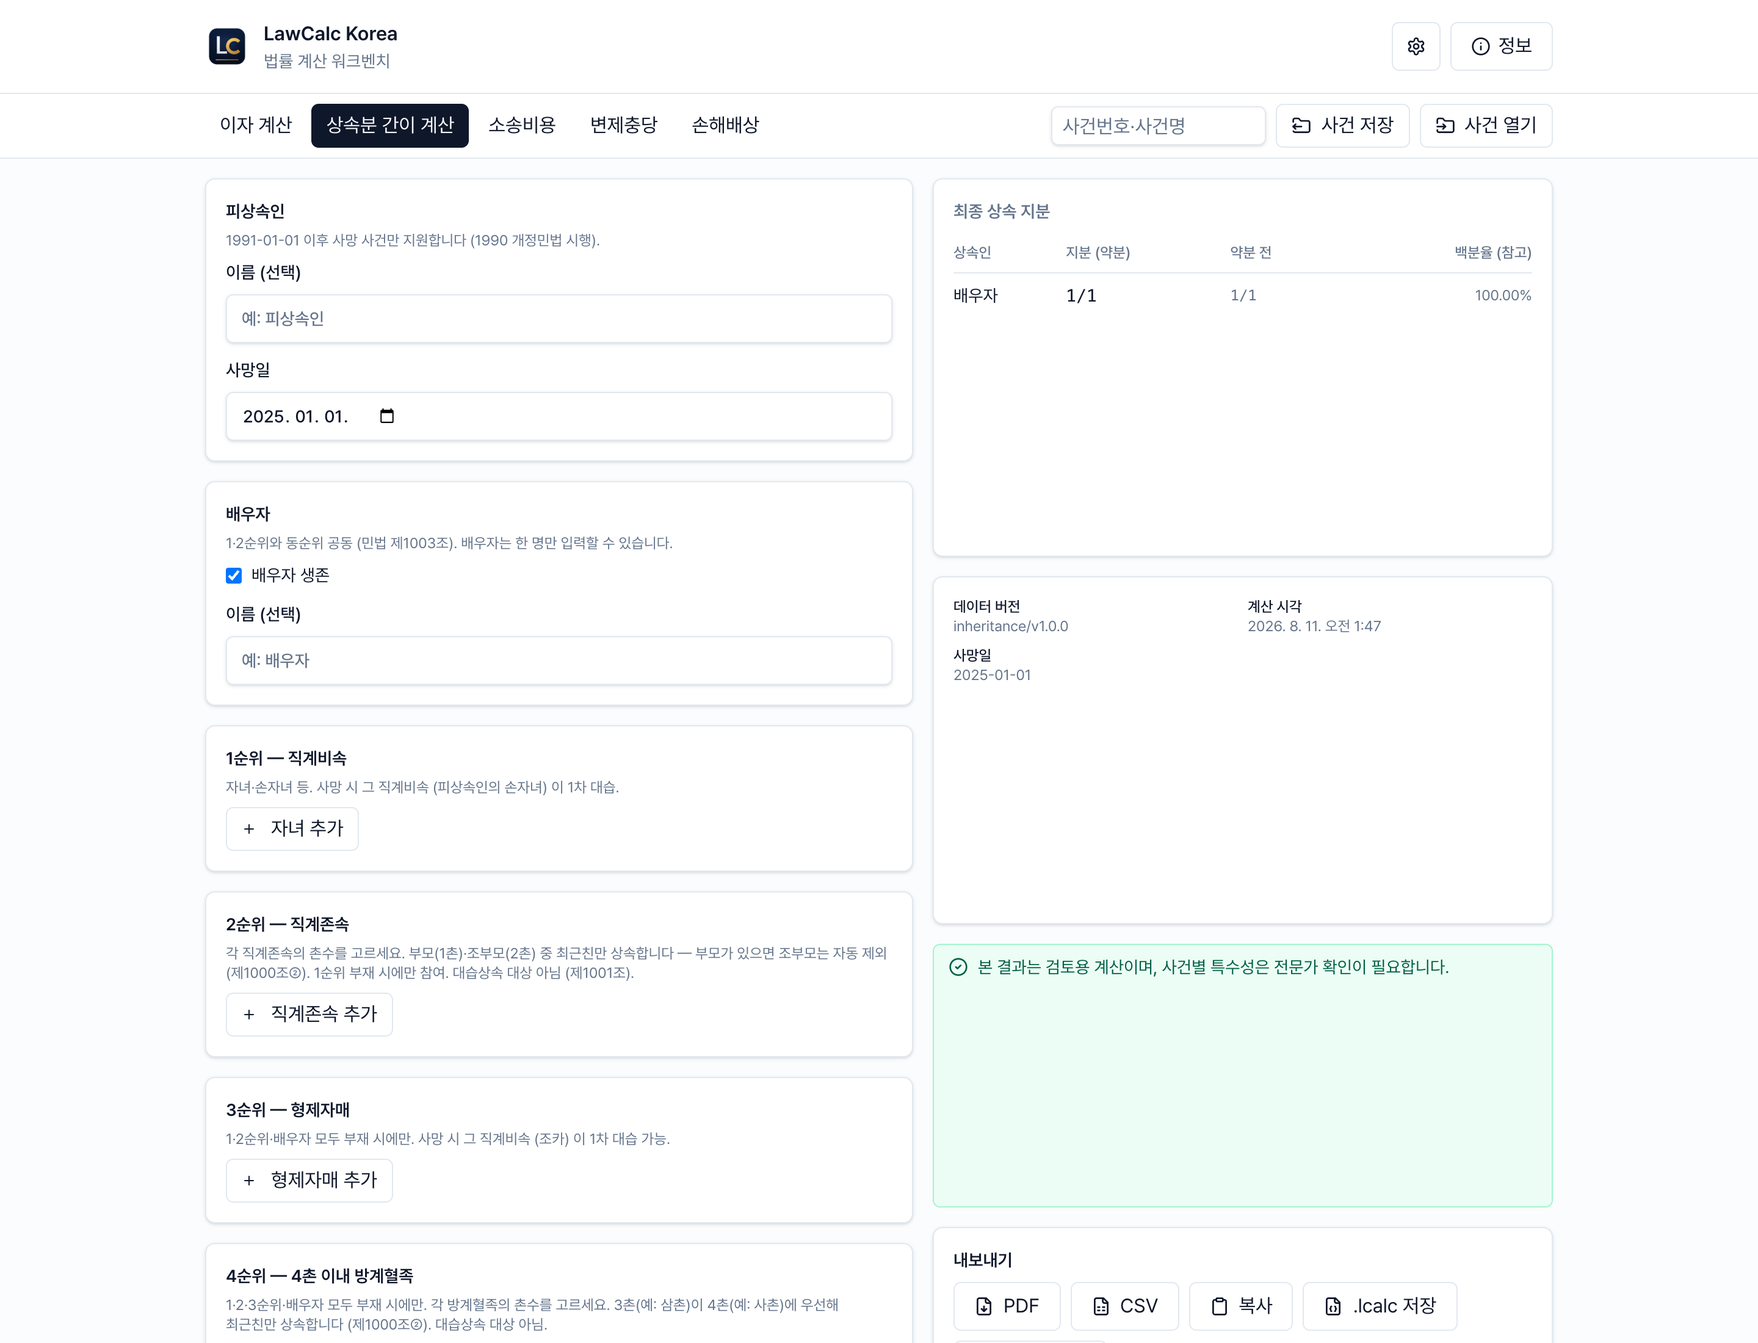
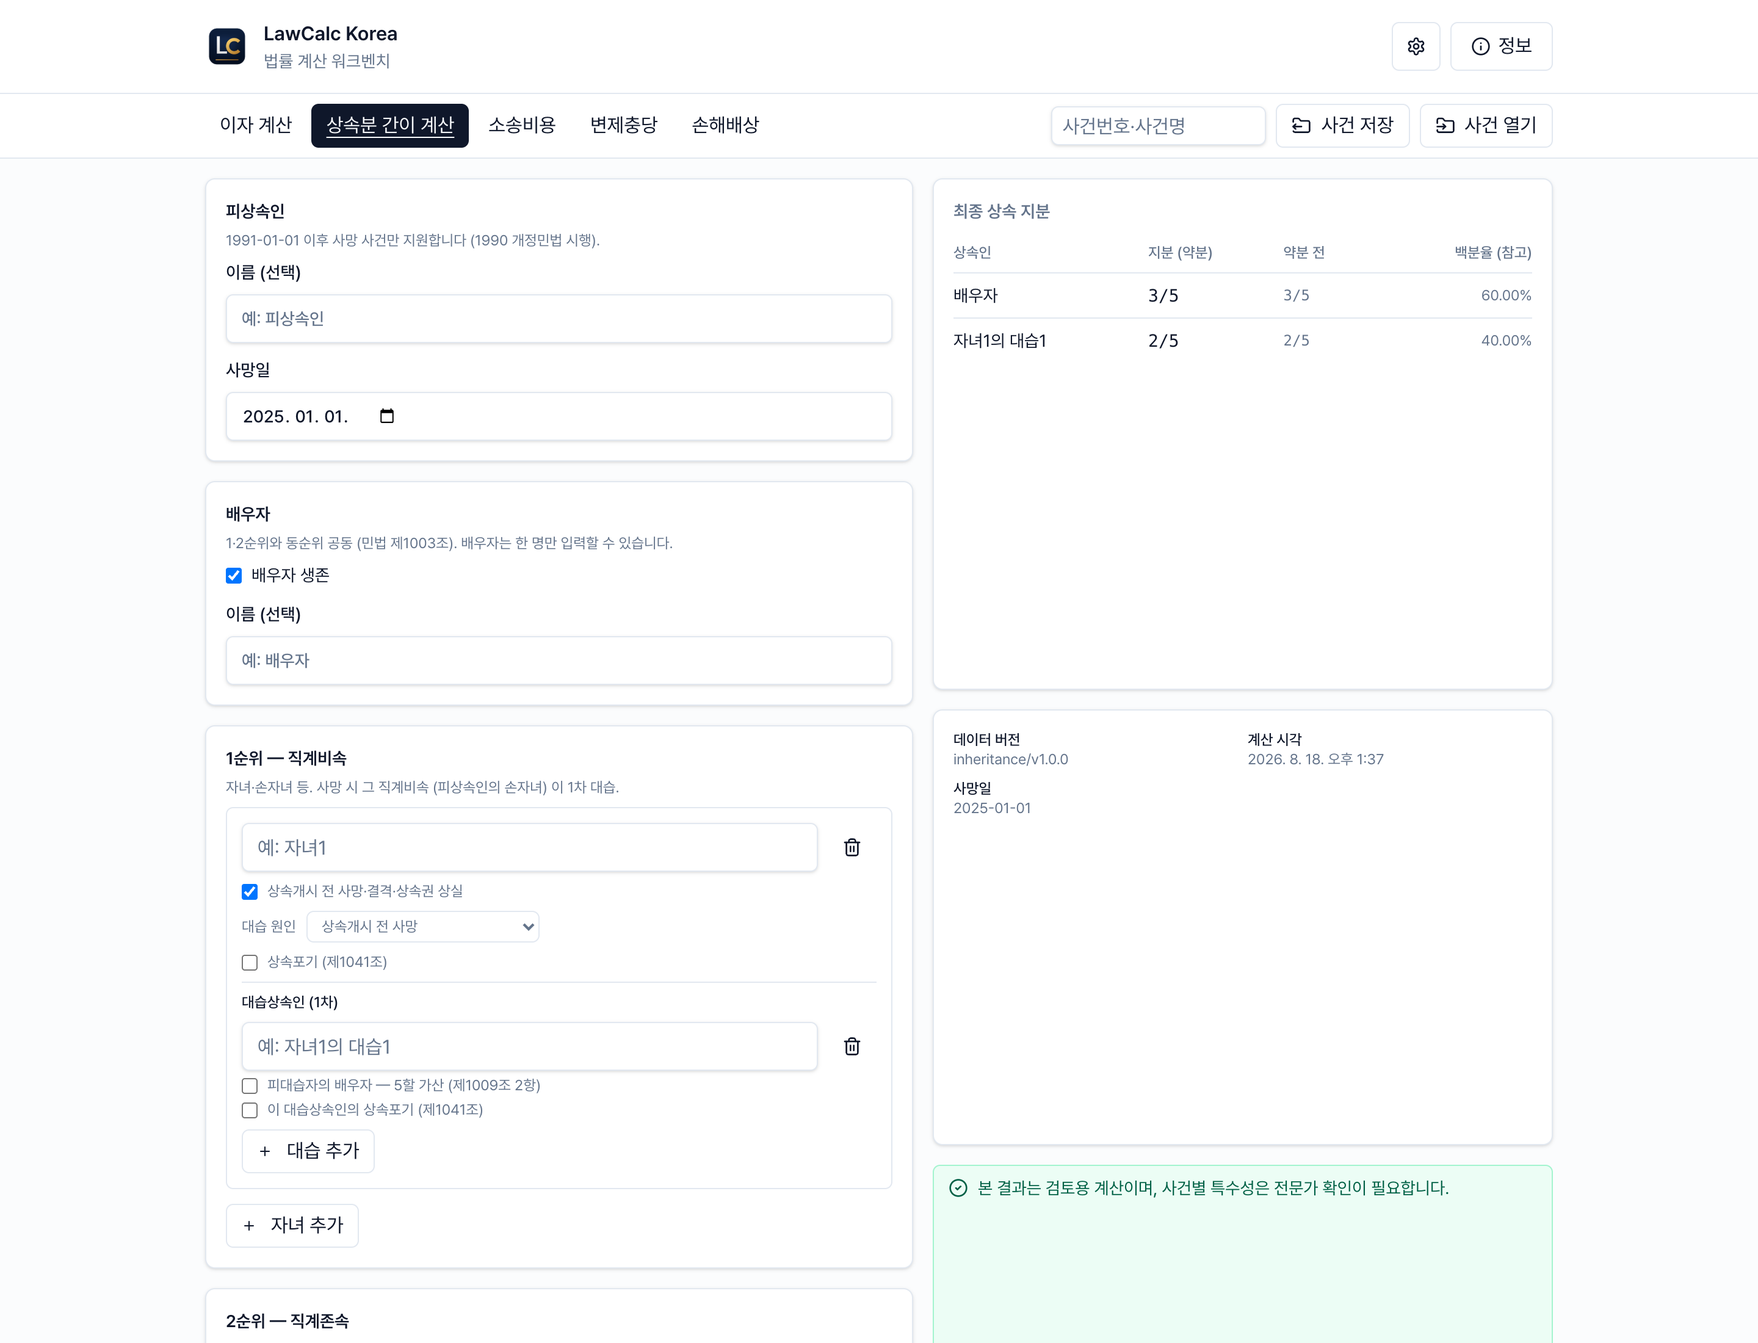
docs: describe the current feature set and recapture the screenshots
The README and the legal reference notes still described the state before this
round: no renunciation or ground of representation on the inheritance tab, no
case value basis or underlying stamp duty on litigation cost, and no payment
date or appropriation rank on the appropriation tab.

Every screenshot is recaptured rather than the three that changed content,
because the active tab is now underlined and the tab bar sits at the top of each
one. The capture script located the tabs by button role, which stopped matching
once they carried tab semantics. The inheritance capture added no heirs, so the
features the README introduces were absent from the picture it points at.

The unreleased section of the changelog was empty while a release worth of
accuracy fixes had accumulated. It opens with a warning that the same input can
now produce a different figure, since a minor bump under 0.x carries no such
signal on its own.

diff --git a/CHANGELOG.md b/CHANGELOG.md
@@ -6,6 +6,61 @@ The format is based on [Keep a Changelog](https://keepachangelog.com/en/1.1.0/),
 
 ## [Unreleased]
 
+> **주의 — 같은 입력에 v0.11.0 과 다른 금액이 나옵니다.** 이번 변경은 정확성 수정이 대부분이라
+> 이자·상속분·소송비용·변제충당·손해배상 전 도메인에서 결과가 달라질 수 있습니다. 진행 중인
+> 사건에 v0.11.0 결과를 이미 제출했다면 다시 계산해 확인해 주세요. 버전 번호는 `0.x` 규칙상
+> minor 로 올라가지만, 금액이 바뀌는 폭은 major 급입니다.
+
+### Added
+
+- 상속인마다 **상속포기**(민법 제1041조)를 체크할 수 있습니다. 포기는 대습원인이 아니므로(제1001조) 대습상속인이 생기지 않습니다. 어느 촌수 전원이 포기하고 배우자가 있으면 배우자 단독상속으로 처리합니다(대법원 2023. 3. 23.자 2020그42 전원합의체). 대습상속인 각자의 포기도 따로 넣을 수 있습니다.
+- 대습이 생긴 **원인**을 상속개시 전 사망 / 상속결격(제1004조) / 상속권 상실선고(제1004조의2)로 구분해 입력합니다.
+- 변제충당에 **변제일** 입력을 추가했습니다. 그 날짜를 기준으로 변제기 도래 여부를 판정합니다(제477조 제1호). 비워 두면 종전처럼 계산 시점을 기준으로 봅니다.
+- 변제충당 결과에 **충당 순위**를 표시합니다. 변제기 도래 여부와 변제이익 순위, 동순위 비례 안분 여부가 채권마다 나옵니다.
+- 소송비용에 **소가 산정 기준**을 추가했습니다. 소가를 산출할 수 없는 재산권상의 소와 비재산권을 목적으로 하는 소송은 간주 소가 5,000만원, 규칙 제15조①~③·제15조의2·제17조의2·제18조에 정한 소송은 1억원으로 계산합니다(「민사소송 등 인지규칙」 제18조의2).
+- 항고·재항고 사건에 **원신청서 인지액** 입력을 추가했습니다. 제9조·제10조의 신청에 관한 재판에 대한 항고는 그 2배로 계산하고(인지법 제11조 제1항), 비워 두면 제11조 제2항의 2,000원 정액이 적용됩니다.
+- 향후치료비·보조구에서 같은 지출을 여러 항목으로 나눠 넣은 것으로 의심되는 조합을 감지해 안내합니다. 수치합계 한도가 항목마다 따로 걸려 합계가 커지기 때문입니다. **금액은 바꾸지 않고 표시만 합니다.**
+- 한도가 걸려 금액이 줄었다는 사실과 분할 의심 안내가 **클립보드·PDF·CSV 에도 나갑니다.** 이전에는 화면에만 있어서, 실무에서 최종 산출물이 되는 PDF 산출근거에서 빠졌습니다. 소송비용의 대한법률구조공단 적용 범위 경고도 같습니다.
+- 소촉법 이율을 골랐을 때 계산 기간이 이율 변경일(2015-10-01, 2019-06-01)을 걸치면 부칙 경과조치 안내를 띄웁니다. 변론종결일은 입력에 없으므로 계산은 그대로 두고 안내만 합니다.
+- 저장하지 않은 계산 내용이 있는 상태로 창을 닫으면 확인 창이 뜹니다.
+- 상단 탭을 스크린리더가 탭으로 인식하도록 바꾸고, 활성 탭을 색 외에 밑줄로도 표시합니다.
+
+### Fixed
+
+- **이자**: 여러 구간으로 나눈 계산에서 초일 불산입이 구간마다 중복 적용돼 구간 수만큼 일수가 빠졌습니다. 2구간 363일(정답 364일), 3구간 2,189일(정답 2,191일)이었습니다. 초일 불산입은 기간의 기산일에 한 번 적용하는 규칙이고(민법 제157조) 구간 분할은 이율 문제라 무관합니다.
+- **이자**: 이율에 `NaN` 이나 무한대가 들어가면 검증 없이 통과해 이자가 `NaN` 으로 나왔습니다. 원금은 이미 막혀 있어 대칭이 깨져 있었습니다.
+- **이자**: 소촉법 이율을 골랐는데 계산 기간이 2003-06-01 이전까지 걸치면 함수 이름이 든 영어 오류 문구가 결과 화면에 그대로 떴습니다. 이제 계산 전에 한국어로 안내하고 계산을 막습니다. 그 이전 기간에 소촉법 이율이 없는 이유는 데이터 누락이 아니라 헌재 2003. 4. 24. 선고 2002헌가15 위헌결정으로 구 규정이 실효됐기 때문이며, 안내 문구에 그 사유를 밝힙니다.
+- **이자**: 민법·상법 법정이율의 적용 시작일이 시행일이 아니라 공포일로 들어가 있었습니다. 1958~1959년·1962년 기산 계산의 결과가 달라집니다.
+- **이자**: 이자제한법 데이터셋의 대통령령 번호 3건을 정정했습니다.
+- **상속**: 1순위 직계비속에 최근친 우선(제1000조 제2항)이 적용되지 않아, 자녀와 손자녀를 함께 넣으면 손자녀에게도 지분이 갔습니다.
+- **상속**: 2026. 3. 17. 공포·시행된 법률 제21454호가 제1003조 제2항의 대습 배우자를 "사망 또는 결격된 자의 배우자"에서 "상속개시전에 사망한 사람의 배우자"로 좁힌 것을 반영합니다. 시행일 이후 개시된 상속에서 결격·상속권 상실이 원인이면 피대습자의 배우자는 대습분을 받지 못합니다. 직계비속 대습은 그대로 유지됩니다. 부칙 제2조의 적용례에 제1003조가 없어 시행일로 갈립니다.
+- **상속**: 같은 상속인에게 "상속개시 전 사망"과 "상속포기"를 함께 체크하면, 입력해 둔 대습상속인이 경고 없이 결과에서 빠졌습니다(최악의 경우 배우자 단독상속으로 뒤집혔습니다). 두 상태를 함께 지정할 수 없게 했습니다.
+- **소송비용**: 항소·상고 인지액이 불복 범위를 반영하지 않고 전체 소가로 계산됐습니다. 전체 소가 1억원·불복 범위 3,000만원 사건에서 3.25배로 과대했습니다(「민사소송 등 인지규칙」 제25조).
+- **소송비용**: 항소·상고 사건을 저장하면 전체 소가가 파일에 남지 않아, 다시 열어 심급을 1심으로 되돌리면 불복 범위를 소가로 착각해 조용히 과소 계산됐습니다.
+- **소송비용**: 조정신청(머)에 인지법 제2조 소장 산식이 그대로 적용돼 10배로 나왔습니다. 「민사조정규칙」 제3조의 10분의 1을 적용합니다.
+- **소송비용**: 조정신청에 항소·상고 심급을 지정할 수 있어, 존재하지 않는 상소 수수료가 산출됐습니다(소가 3,000만원 기준 항소 21,000원·상고 28,000원). 조정 신청 수수료에는 심급 개념이 없어 1심으로 강제합니다.
+- **소송비용**: 항고·재항고(라/마) 인지를 소장 누진식으로 계산했습니다. 인지법 제11조의 별도 체계를 적용합니다.
+- **소송비용**: 전자소송 감액(제16조)이 1,000원 하한에 먹혀 무효화되던 구간이 있었습니다. 하한을 심급 배수보다 앞에 두도록 순서를 바로잡아, 소가 10,000원 사건의 항소가 1,000원(정답 1,500원)·상고가 1,000원(정답 2,000원)으로 나오던 것도 함께 고쳤습니다.
+- **소송비용**: 송달료 회당 단가가 낡아 있었습니다(5,500원 → 5,640원).
+- **소송비용**: 가압류·가처분 이의·취소 신청사건의 변호사보수가 0원으로 강제됐습니다. 규칙 제3조 제2항 단서의 변론·심문 요건은 신청사건 전용이라 이의·취소에는 적용되지 않습니다.
+- **소송비용**: 소가 산정 기준 값에 오타가 들어가면 검증 없이 간주 소가로 처리돼, 소가 10억원 사건의 인지액이 4,055,000원에서 230,000원으로 바뀌었습니다.
+- **소송비용**: 항고 사건의 원신청서 인지액에 음수·`NaN`·무한대를 넣어도 검증 없이 통과해, 음수 인지액이나 `NaN` 이 결과에 실렸습니다.
+- **소송비용**: 화면을 초기화해도 소가 산정 기준이 그대로 남아, 기본 화면에서 230,000원이 계산됐습니다(정상 140,000원).
+- **소송비용**: 불복 범위가 소가와 따로 움직여, 소가만 고치면 불복 범위가 옛 값에 남았습니다. 이제 비워 두면 소가를 따라갑니다. 간주 소가를 고르면 불복 범위 입력도 함께 비활성됩니다.
+- **변제충당**: 동순위 채권의 비례 안분에서 변제금이 사라졌습니다. 변제 5원·총채무 6원이면 4원만 충당됐고(1원 증발), 5채권 74원은 71원이 됐습니다. 배분 결과가 채권 입력 순서에 따라 달라지기도 했습니다.
+- **변제충당**: 채권 잔액에 안전정수 범위를 벗어난 값을 넣어도 검증 없이 통과했습니다.
+- **손해배상**: 사고 당시 만 25세 미만이면 계산 자체가 불가능했습니다(만 24세·만 10세·신생아 모두 오류). 가동연한을 65세보다 높게 잡아도 같았습니다.
+- **손해배상**: 가동연한이 이미 지난 피해자는 위자료만 청구해도 계산이 거부됐습니다.
+- **손해배상**: 기왕증 기여도를 입력해도 일실수입에 반영되지 않았습니다. 입력란과 저장까지 배선돼 있는데 계산만 이 값을 읽지 않아, 조용히 과대한 금액이 나왔습니다.
+- **손해배상**: 극단적으로 짧은 한시장해가 경고 없이 사라졌습니다.
+- **손해배상**: 같은 지출을 나눠 넣은 조합을 감지할 때 기간이 부분적으로 겹치거나 한쪽이 다른 쪽에 포함되는 경우를 놓쳤습니다.
+- 계산 결과 화면의 조문 표기에서 절 기호를 없애고 "제N조 N항"으로 통일했습니다.
+
+### Changed
+
+- 상속포기·대습 원인, 변제일, 소가 산정 기준·전체 소가·원신청서 인지액이 담긴 `.lcalc` 파일은 `inheritance@2` · `appropriation@2` · `litigation-cost@2` 를 요구합니다. 이 필드들이 없는 파일은 종전대로 `@1` 로 저장되어 이전 버전에서도 열립니다. 반대로 새 필드가 담긴 파일을 이전 버전에서 열면 필드가 조용히 버려져 금액이 달라지므로, 이전 버전이 열지 못하게 막습니다.
+- 데이터셋 출처 메타데이터(`legal-rates`, `interest-limits`, `delivery`, `stamp-duty`)를 정정했습니다.
+
 ## [0.11.0] - 2026-08-11
 
 ### Fixed
@@ -130,7 +185,7 @@ The format is based on [Keep a Changelog](https://keepachangelog.com/en/1.1.0/),
 
 ### Added
 
-- 자×부상 손해배상 도메인 진입을 위한 정적 데이터셋으로 호프만 단리연금현가율 표(`hoffman/v1.0.0`, 월 단위 1~480개월, 240 한도 정보)와 라이프니츠 복리현가율 표(`leibniz/v1.0.0`, 월 단위 1~480개월, 할인율 연 5%)를 번들했습니다. 이 단계에서는 데이터셋만 도입하고 엔진 연결은 이후 단계에서 진행했습니다.
+- 자×부상 손해배상 도메인 진입을 위한 정적 데이터셋으로 호프만 단리연금현가율 표(`hoffman/v1.0.0`, 월 단위 1~~480개월, 240 한도 정보)와 라이프니츠 복리현가율 표(`leibniz/v1.0.0`, 월 단위 1~~480개월, 할인율 연 5%)를 번들했습니다. 이 단계에서는 데이터셋만 도입하고 엔진 연결은 이후 단계에서 진행했습니다.
 - 자×부상 일실수입 계산을 위한 외부 데이터셋으로 대한건설협회 시중노임 단가(`labor-rates/v1.0.0`, 2026.1.1 적용 직종 113개)와 통계청 KOSIS 생명표(`life-expectancy/v1.0.0`, 2023년 사망률 기준 기준값 5개 / 남녀)를 번들했습니다. 스냅샷 경과 기간을 ≤6개월 / 6~12개월 / >12개월 기준으로 판단하는 `computeStaleBadge` 함수도 함께 추가했으며, 직종 자동입력과 사용자 직접 일당 입력을 함께 두는 흐름은 이후 단계에서 도입했습니다.
 - 자×부상 손해배상 엔진 코어(`computeCompensation`)를 도입했습니다. 노동력상실률 중복 자동 합산과 한시장해 환산, 한시 종료 시점의 구간 분해, 단가 조회 또는 `directWageWon` 직접 입력, 호프만 240 한도 누적 적용, 위자료·과실상계·공제(비율/전액), 100원 미만 절사까지 10단계를 한 함수로 묶었습니다. 결과에는 `STANDARD_DISCLAIMER`와 데이터셋 식별자 4종(`labor-rates`/`life-expectancy`/`hoffman`/`leibniz`)을 함께 담습니다. 자×부상 5개 케이스는 매뉴얼 산출 근거를 기준으로 골든 케이스로 묶었으며, UI 탭과 `.lcalc` 기능 ID 등록은 이후 단계에서 진행했습니다.
 - 손해배상 탭과 `.lcalc` v3 `compensation@1` 기능 ID를 추가했습니다. 기초사항, 노동력상실률(영구/한시), 일실수입(직종 자동입력 + 일당 직접 입력), 위자료, 과실비율, 공제(비율/전액)를 입력할 수 있습니다. 결과 카드에는 일실수입 구간, 호프만 240 한도 표기, 최종 합계, `STANDARD_DISCLAIMER`, 데이터셋 식별자 4종을 함께 표시합니다. 대한건설협회 시중노임 스냅샷 경과 개월에 따라 결과 카드 상단 안내와 일당 직접 입력 강조가 자동 적용됩니다.

diff --git a/README.md b/README.md
@@ -52,6 +52,8 @@
 
 피상속인·배우자·1~4순위 상속인·1차 대습상속인을 넣으면 법정상속분이 나옵니다. 약분 전후 지분과 백분율을 함께 보여줘서 수기로 다시 맞춰보기 편합니다.
 
+상속인마다 **상속포기**(제1041조)를 체크할 수 있고, 대습이 생긴 **원인**(상속개시 전 사망 / 상속결격 / 상속권 상실선고)을 고를 수 있습니다. 원인을 구분하는 이유는 2026. 3. 17. 개정 제1003조 제2항이 대습 배우자를 "상속개시전에 사망한 사람의 배우자"로 좁혔기 때문입니다. 시행일 이후 개시된 상속에서는 결격·상실이 원인이면 피대습자의 배우자가 대습분을 받지 못하고, 직계비속 대습은 그대로 유지됩니다. 대습상속인 각자의 포기도 따로 체크할 수 있습니다.
+
 지금은 1991-01-01 이후 사망 케이스와 1차 대습상속까지 지원합니다. 자세한 범위는 [docs/LEGAL_REFERENCES.md](docs/LEGAL_REFERENCES.md)의 '현재 상속 범위'를 참고해 주세요.
 
 ### 소송비용
@@ -60,7 +62,9 @@
   <img src="docs/assets/readme-litigation-cost.png" alt="소송비용 계산 화면" width="820">
 </p>
 
-인지대·송달료·변호사보수를 한 번에 계산하고, 합계와 분배표까지 만듭니다. 입력 항목은 사건구분·소가·당사자수, 항소·상고 불복 범위, 전자소송 여부, 화해, 지급보수액, 변호사보수 감액, 대한법률구조공단 기준, 접수일입니다. 지급명령 감액과 가압류·가처분 인지는 사건구분을 고르면 함께 적용됩니다.
+인지대·송달료·변호사보수를 한 번에 계산하고, 합계와 분배표까지 만듭니다. 입력 항목은 사건구분·소가·소가 산정 기준·당사자수, 항소·상고 불복 범위, 전자소송 여부, 화해, 지급보수액, 변호사보수 감액, 대한법률구조공단 기준, 보전 신청사건 성격, 접수일입니다. 지급명령 감액과 가압류·가처분 인지는 사건구분을 고르면 함께 적용됩니다.
+
+소가를 산출할 수 없는 사건은 **소가 산정 기준**에서 간주 소가(5,000만원 또는 1억원)를 고르면 됩니다(인지규칙 제18조의2). 항소·상고는 불복 범위를 기준으로 인지액을 산정하되(인지규칙 제25조), 전체 소가도 파일에 함께 남습니다. 항고·재항고 사건은 **원신청서 인지액**을 넣으면 그 2배로 계산하고(인지법 제11조 제1항), 비워 두면 제11조 제2항의 2,000원 정액이 적용됩니다. 조정신청은 신청 수수료만 있어 심급을 고를 수 없습니다.
 
 결과에는 항목별 금액과 한국어 산식, 데이터 버전, 분배표(균등 또는 소가비례)가 붙습니다. 대한법률구조공단 기준을 쓰면 적용 경고도 함께 뜹니다. 자세한 범위는 [docs/LEGAL_REFERENCES.md](docs/LEGAL_REFERENCES.md)의 '현재 소송비용 범위'에 있습니다.
 
@@ -70,7 +74,9 @@
   <img src="docs/assets/readme-appropriation.png" alt="변제충당 계산 화면" width="820">
 </p>
 
-채권 여러 건의 비용·이자·원본 잔액과 변제액을 넣으면 지정충당 또는 법정충당 순서로 차감합니다. 채권별 차감액과 잔액, 데이터 버전, 계산 시각이 결과에 함께 나옵니다.
+채권 여러 건의 비용·이자·원본 잔액과 변제액을 넣으면 지정충당 또는 법정충당 순서로 차감합니다. **변제일**을 넣으면 그 날짜를 기준으로 변제기 도래 여부를 판정합니다(제477조 제1호). 비워 두면 오늘 날짜로 보므로, 과거 변제를 재현하거나 저장한 파일을 다시 열 때는 실제 변제일을 넣어야 합니다.
+
+결과에는 채권별 **충당 순위**(변제기 도래 여부와 변제이익 순위, 동순위면 비례 안분)와 차감액·잔액, 데이터 버전, 계산 시각이 함께 나옵니다.
 
 ### 손해배상
 
@@ -169,7 +175,9 @@ pnpm lint           # ESLint + Prettier
 node scripts/capture-screens.mjs  # README 스크린샷 재캡처
 ```
 
-기여 절차·릴리스 워크플로·테스트 정책은 [`CONTRIBUTING.md`](CONTRIBUTING.md)에 있습니다. 버그 신고와 기능 제안은 [Issues](https://github.com/kyungseopk1m/lawcalc-kr/issues)로 받습니다.
+기여 절차·릴리스 워크플로·테스트 정책은 [`CONTRIBUTING.md`](CONTRIBUTING.md)에 있습니다.
+
+버그 신고와 기능 제안은 [Issues](https://github.com/kyungseopk1m/lawcalc-kr/issues)로 받습니다. GitHub 계정이 없으시면 앱의 **정보 다이얼로그**에 적힌 메일 주소로 보내주셔도 됩니다.
 
 ## 헌사 / Acknowledgments
 
